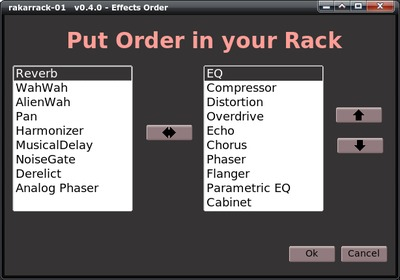
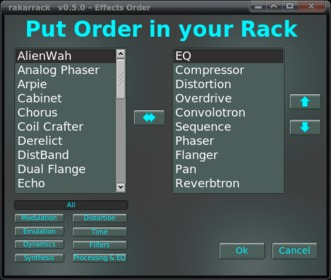
Updating help
modified:   doc/help/help.html
	modified:   doc/help/imagenes/order.jpg

diff --git a/doc/help/help.html b/doc/help/help.html
@@ -652,16 +652,14 @@ the program read this bank preset file when read the normal bank file.</p>
 <h2>EFFECTS</h2>
 
 <p>The chain has nineteen effects, you can select any
-of the available effects: Linear EQ, Compressor, Distortion,
-Overdrive, Derelict, Echo, Chorus, Phaser, Analog Phaser, Flanger,
-Reverb, EQ parametric, WahWah, AlienWah, Cabinet, Pan, Harmonizer,
-MusicalDelay and NoiseGate. Ten can be used simultaneously. It
+of the available effects. Ten can be used simultaneously. It
 cascading process, following the order that appears on the screen,
 from left to right and top to bottom. The order is configurable by
 the user via the button "Put in your order Rack" giving
 access to this screen. The effect selected moves up or down using the
 arrows. The double arrow button interchange the selected effects
-between the two browsers.</p>
+between the two browsers. Effects can be selected by type clicking the type
+buttons</p>
 
 <p><img src="imagenes/order.jpg" alt="rakarrack Order Window" align="middle" border="1" height="284" width="400"></p>
 
